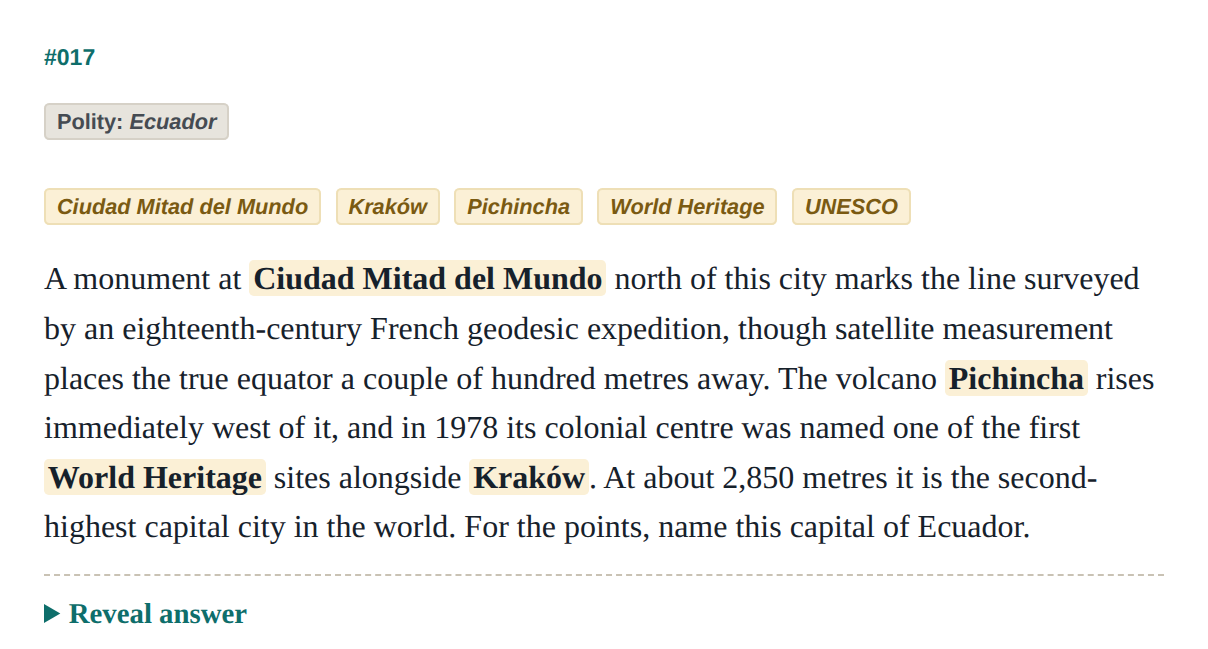
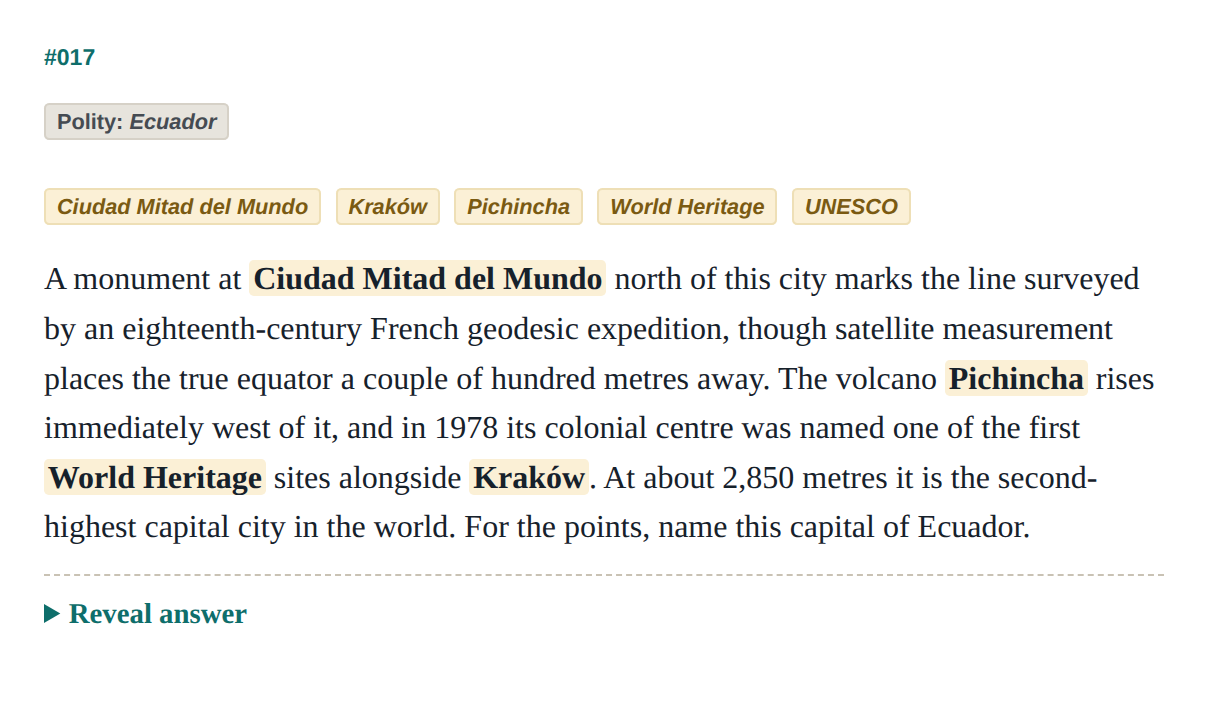
Pad the hero screenshots to one canvas size
The four images ranged from 600 to 717 pixels tall, so switching questions
changed the card height and shoved the page around. All four now sit
top-aligned on an identical 1208x717 white canvas, and the markup declares
one size.

Changed region(s): [[0.0306, 0.2465, 0.9495, 0.8937], [0.0306, 0.0616, 0.2144, 0.2157], [0.0306, 0.9245, 0.2144, 0.9861]]

diff --git a/index.html b/index.html
@@ -251,7 +251,7 @@ footer .wrap{display:flex;justify-content:space-between;gap:16px;flex-wrap:wrap}
     <div>
       <p class="label" style="margin-bottom:12px">A question from the sample</p>
       <div class="card">
-        <img id="sampleshot" src="sample-q095.png" width="1208" height="600"
+        <img id="sampleshot" src="sample-q095.png" width="1208" height="717"
              alt="Question #095 from the sample: clue tags and a pyramid tossup whose answer is the Sargasso Sea.">
         <div class="deck" id="deck"></div>
       </div>
@@ -426,7 +426,7 @@ footer .wrap{display:flex;justify-content:space-between;gap:16px;flex-wrap:wrap}
 <footer>
   <div class="wrap">
     <span>© <span id="yr">2026</span> QuizBook</span>
-    <span class="ver">build 2026-08-10 03:40 UTC</span>
+    <span class="ver">build 2026-08-10 03:55 UTC</span>
   </div>
 </footer>
 
@@ -434,13 +434,13 @@ footer .wrap{display:flex;justify-content:space-between;gap:16px;flex-wrap:wrap}
 document.getElementById('yr').textContent = new Date().getFullYear();
 
 const SHOTS = [
-  {src:'sample-q095.png', w:1208, h:600,
+  {src:'sample-q095.png', w:1208, h:717,
    alt:'Question #095: clue tags and a pyramid tossup whose answer is the Sargasso Sea.'},
   {src:'sample-q002.png', w:1208, h:717,
    alt:'Question #002: clue tags and a pyramid tossup whose answer is Brasília.'},
-  {src:'sample-q017.png', w:1208, h:649,
+  {src:'sample-q017.png', w:1208, h:717,
    alt:'Question #017: clue tags and a pyramid tossup whose answer is Quito.'},
-  {src:'sample-q197.png', w:1208, h:600,
+  {src:'sample-q197.png', w:1208, h:717,
    alt:'Question #197: clue tags and a pyramid tossup whose answer is the Bay of Fundy.'}
 ];
 const shot = document.getElementById('sampleshot');
